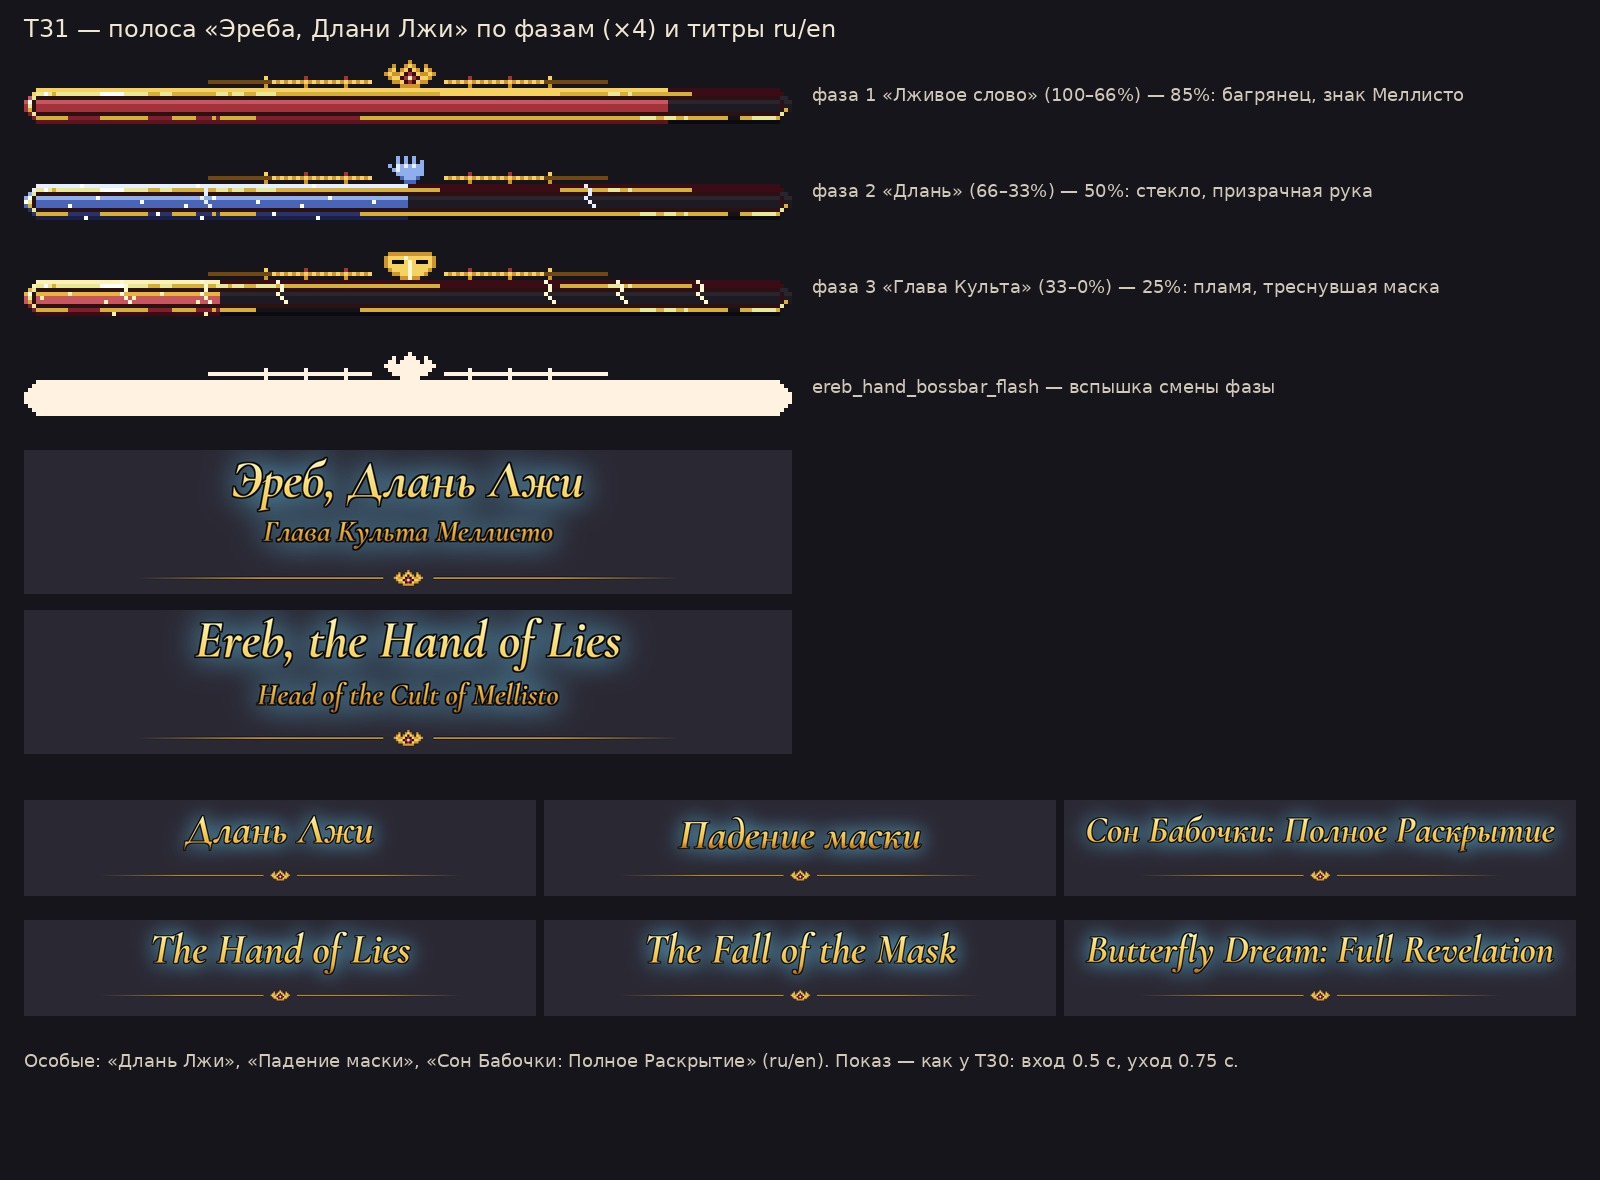
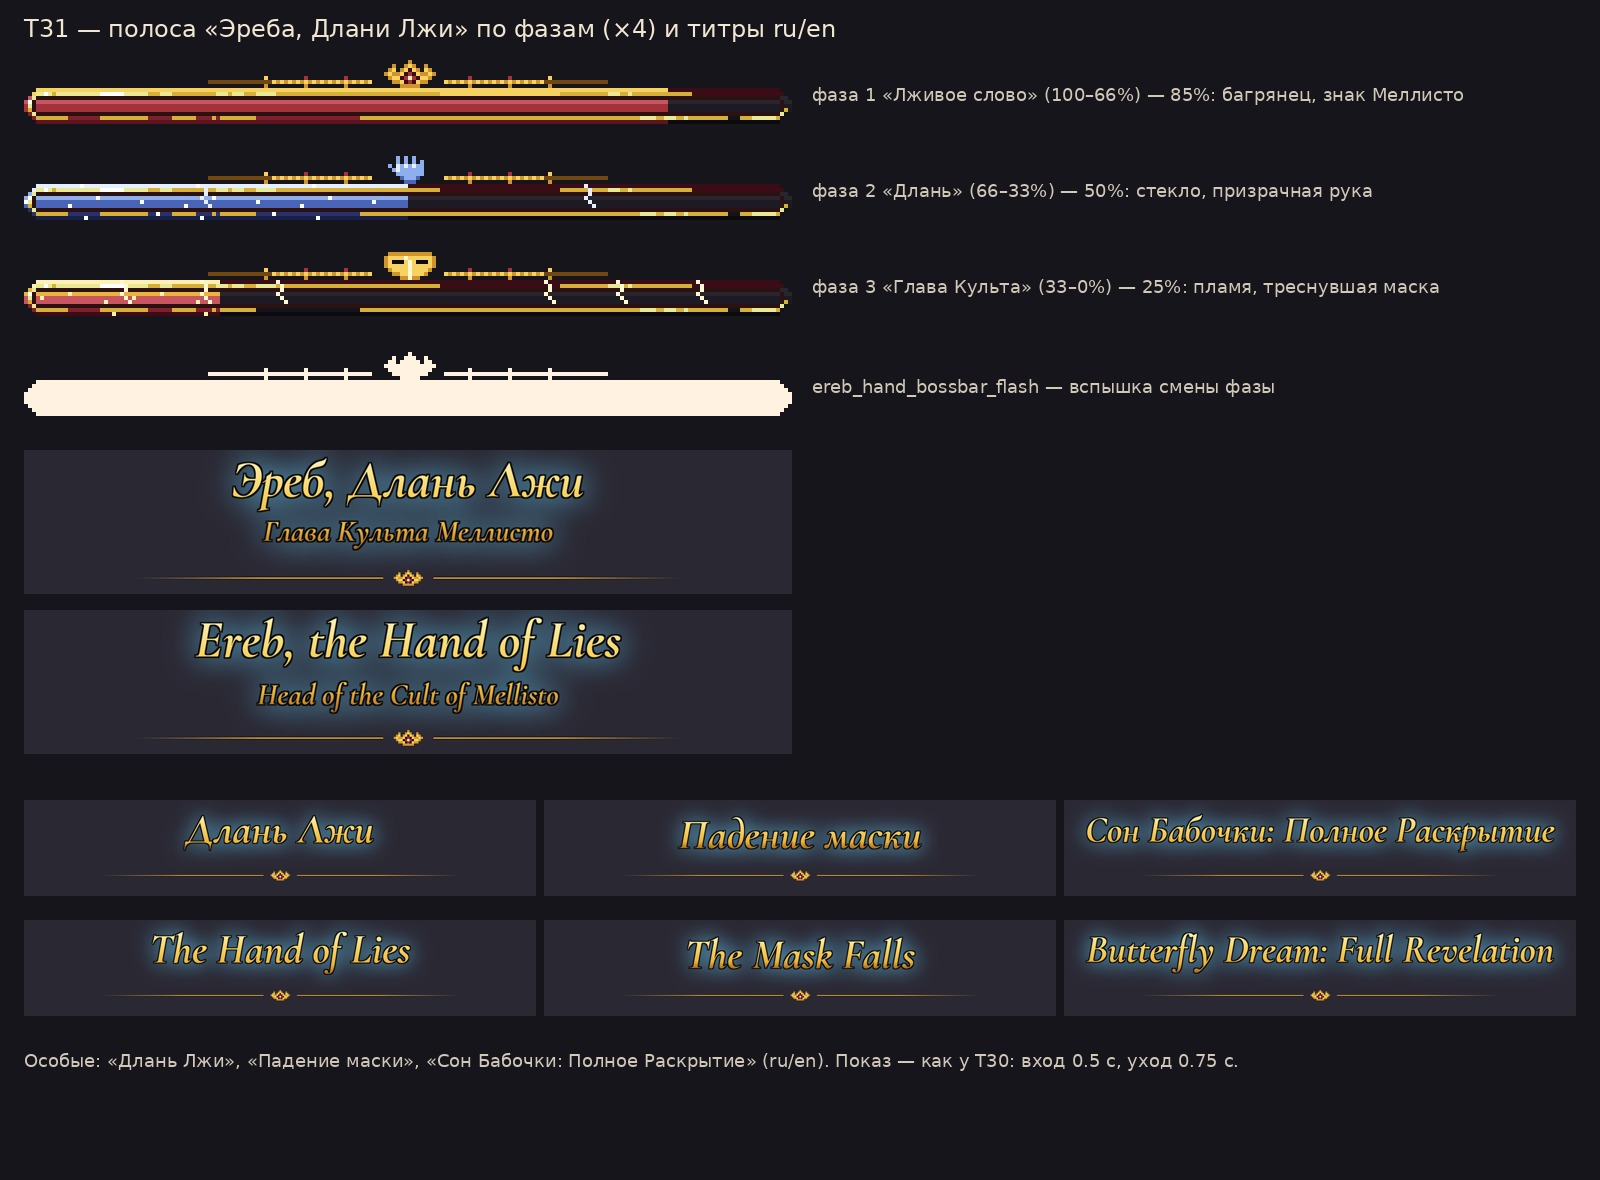
T31: X/Y sign check against Iron's animations, en title 'The Mask Falls', next-stage list in letter
Claude-Session: https://claude.ai/code/session_01Fjhr2gVeRg8iMyYRuT9qoh

Changed region(s): [[0.4062, 0.7627, 0.625, 0.8237]]

diff --git a/tools/gen_ereb_hand_ui.py b/tools/gen_ereb_hand_ui.py
@@ -111,7 +111,7 @@ def bossbars():
 
 TITLES = {'': ('Эреб, Длань Лжи', 'Глава Культа Меллисто', 'Ereb, the Hand of Lies', 'Head of the Cult of Mellisto'),
           'hand_of_lies': ('Длань Лжи', None, 'The Hand of Lies', None),
-          'mask_fall': ('Падение маски', None, 'The Fall of the Mask', None),
+          'mask_fall': ('Падение маски', None, 'The Mask Falls', None),
           'full_reveal': ('Сон Бабочки: Полное Раскрытие', None, 'Butterfly Dream: Full Revelation', None)}
 
 
@@ -137,7 +137,7 @@ LANG = {
                                         '"The Hand" — it grabs. Strike the hand to free your ally.'),
     'ui.pohsmp_core.ereb_hand.phase3': ('«Глава Культа» — маска трескается.', '"Head of the Cult" — the mask cracks.'),
     'ui.pohsmp_core.ereb_hand.hand_of_lies': ('Длань Лжи', 'The Hand of Lies'),
-    'ui.pohsmp_core.ereb_hand.mask_fall': ('Падение маски', 'The Fall of the Mask'),
+    'ui.pohsmp_core.ereb_hand.mask_fall': ('Падение маски', 'The Mask Falls'),
     'ui.pohsmp_core.ereb_hand.full_reveal': ('Сон Бабочки: Полное Раскрытие', 'Butterfly Dream: Full Revelation'),
     'ui.pohsmp_core.ereb_hand.vanish': ('Эреб рассыпался бабочками. Бой окончен.', 'Ereb scattered into butterflies. The battle is over.'),
     'death.attack.pohsmp_core.ereb_hand_finisher': ('%1$s раздавлен Дланью Лжи', '%1$s was crushed by the Hand of Lies'),

diff --git a/docs/inbox/2026-11-20_mgr_T31_visuals.md b/docs/inbox/2026-11-20_mgr_T31_visuals.md
@@ -210,3 +210,20 @@
 - **накидку в процедурной ходьбе Iron's** (формула выше);
 - **стыки при переходах контроллера GeckoLib** — в файлах позы сходятся, но время перехода (transition ticks) у контроллера должно быть > 0;
 - **текстуру 512** при атласе 128: так же, как у Главы, GeckoLib масштабирует UV сам.
+
+## Знаки X/Y (по предупреждению управляющего)
+Сверено. Позы пишутся сразу в соглашении файлов GeckoLib — того же, что в `casting_animations.json` Iron's (right_arm x −90 = рука вперёд). Второго переворота при записи нет: `EA.anim` пишет векторы как есть.
+
+Превью и `ereb_hand_fk.py` повторяют GeckoLib: x и y поворота инвертированы и для покоя кости, и для анимации, x вершин инвертирован. Проверка — анимации самого Iron's (`instant_projectile`, `continuous_thrust`), а они в игре верны: на модели T31 в превью они выносят руку вперёд по взгляду. Наш выпад, хватка и удар рукой тоже идут вперёд, накидка при выпаде уходит назад.
+
+Значит, превью ошибку не маскирует. Если другой помощник поменяет `gen_ereb_anims.py` (T30), T31 нужно пересобрать: позы тела T31 берутся оттуда (`STAND`, `GUARD`, `LUNGE` и т. д.), потом снова запустить `check_ereb_hand_anims.py`.
+
+## Следующий этап (по письмам управляющего 20.11, ещё не сделан)
+- «Падение маски»:
+  - осколок-меш со стеклянно-золотой рамкой и плоскостью под скин игрока;
+  - fx: разлёт, кружение, «звон», разбитие, взрыв, сборка маски;
+  - стрелка-подсказка к своему осколку.
+
+  Анимации `mask_fall` и `mask_return` и титр уже есть. En-титр уже заменён на «The Mask Falls», как просил владелец.
+- «Полное Раскрытие»: мир сна (зеркальные небо и земля, огромная Длань над ареной).
+- +4 заклинания: «Ложное пламя», «Стеклянная хватка», «Чужая клятва», «Тысяча отражений» — анимации и fx.
